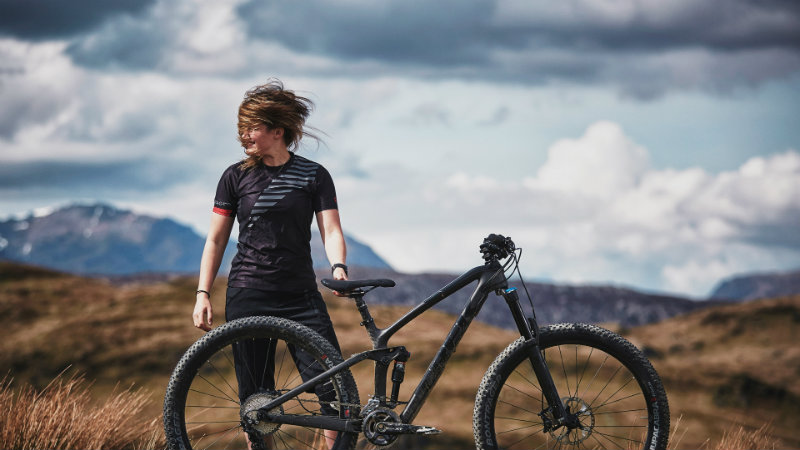
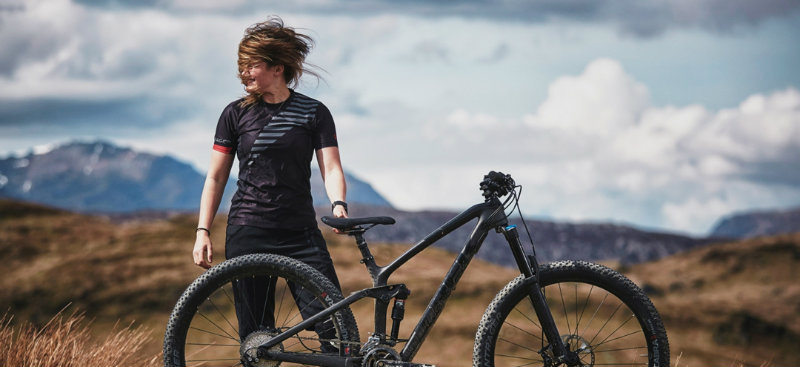
lots of fixes and chnages

diff --git a/cit230/assignments/Term Final/services&repairs.html b/cit230/assignments/Term Final/services&repairs.html
@@ -18,16 +18,29 @@
     </header>
 
     <main>
-       <section>
+        <section>
             <div class="bicyclePics">
                 <img src="images/bikeRepair3.jpg" alt="Bicycle Picutres" srcset="./images/bikeRepair1.jpg 1200w, ./images/bikeRepair2.jpg 800w, ./images/bikeRepair3.jpg 400w">
             </div>
         </section>
         <table>
+<!--
+            <thead>
+                <tr>
+                    <th colspan="3">
+                        <h1>Pricetable</h1>
+                    </th>
+                </tr>
+            </thead>
+-->
             <tbody id="pricetable">
                 <tr>
-                    <th>Services</th>
-                    <th>Price</th>
+                    <th>
+                        <h1>Services</h1>
+                    </th>
+                    <th>
+                        <h1>Price</h1>
+                    </th>
                 </tr>
                 <tr>
                     <th id="item1"></th>
@@ -66,7 +79,7 @@
                     <th id="item18"></th>
                 </tr>
                 <tr>
-                    <th colspan="2">Packages</th>
+                    <th colspan="2"><h1>Packages</h1></th>
                 </tr>
                 <tr>
                     <th id="item19"></th>

diff --git a/cit230/assignments/Term Final/styles/main.css b/cit230/assignments/Term Final/styles/main.css
@@ -207,21 +207,29 @@ footer p {
 
 table {
     border-collapse: collapse;
-    border: 2px solid black;
+    /*    border: 2px solid black;*/
     letter-spacing: 1px;
     font-size: 0.8rem;
-    width: 100%
+    width: 100%;
+    margin-top: -5px;
 }
 
 td,
 th {
-    border: 1px solid black;
+    /*    border: 1px solid black;*/
     padding: 10px 20px;
 }
 
 tbody > tr > th {
-    background-color: white;
     color: black;
+}
+
+tr:nth-child(even) {
+    background: black;
+}
+
+tr:nth-child(odd) {
+    background: #E1E0E6;
 }
 
 td {
@@ -229,7 +237,24 @@ td {
 }
 
 tfoot {
-    background-color: white;
+    background-color: ;
+}
+
+#item1,
+#item2,
+#item5,
+#item6,
+#item9,
+#item10,
+#item13,
+#item14,
+#item17,
+#item18,
+#item19,
+#item20,
+#item23,
+#item24 {
+    color: white;
 }
 
 /*------------------------------*/

diff --git a/cit230/assignments/Term Final/products.html b/cit230/assignments/Term Final/products.html
@@ -73,7 +73,7 @@
 
         <section>
             <div class="bicyclePics2">
-                <img src="images/womensSmall.jpg" alt="Bicycle Picutres" srcset="./images/WomensPromo.jpg 1200w, ./images/womensMed.jpg 800w, ./images/womensSmall.jpg 400w">
+                <img src="images/womensSmall.jpg" alt="Bicycle Picutres" srcset="./images/WomensLarge.jpg 1200w, ./images/womensMed.jpg 800w, ./images/womensSmall.jpg 400w">
             </div>
             <div>
                 <h1 class="bikeProductCap">Bikes for Women</h1>

diff --git a/cit230/assignments/Term Final/home.html b/cit230/assignments/Term Final/home.html
@@ -20,7 +20,7 @@
     <main>
         <section>
             <div class="bicyclePics">
-                <img src="images/nottrek2small.jpg" alt="Bicycle Picutres" srcset="./images/nottrek2.jpg 1200w, ./images/nottrek2med.jpg 800w, ./images/nottrek2small.jpg 400w">
+                <img src="images/homeBannerSmall.jpg" alt="Bicycle Picutres" srcset="./images/homeBanner.jpg 1200w, ./images/homeBannerMed.jpg 800w, ./images/homeBannerSmall.jpg 400w">
             </div>
         </section>
         <div class="picMenu">

diff --git a/cit230/assignments/Term Final/events&tours.html b/cit230/assignments/Term Final/events&tours.html
@@ -18,12 +18,16 @@
     </header>
 
     <main>
-
+        <section>
+            <div class="bicyclePics">
+                <img src="images/off-road.jpg" alt="Bicycle Picutres" >
+            </div>
+        </section>
     </main>
 
     <footer w3-include-html='modules/footer.html'>
 
-        
+
 
     </footer>
     <script src="scripts/include.js"></script>
@@ -32,4 +36,5 @@
     <script src="scripts/currentDate.js"></script>
     <script src="scripts/hamburger.js"></script>
 </body>
+
 </html>
